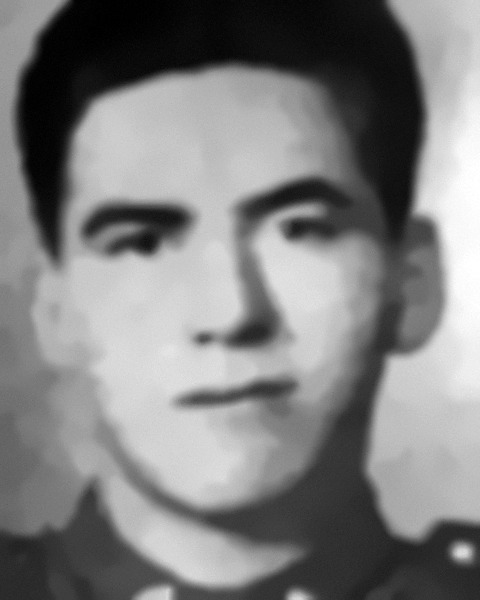
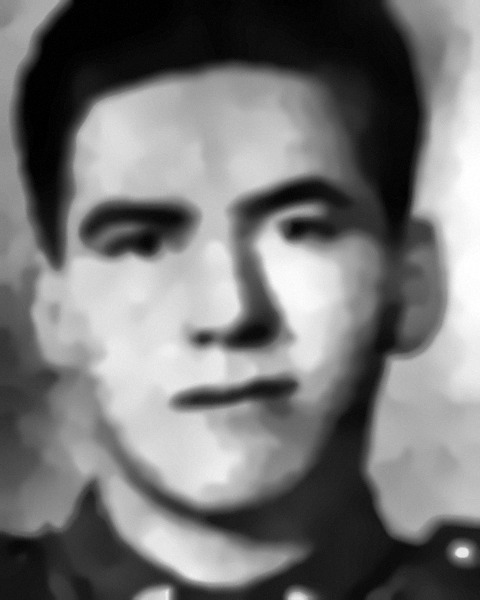
Jim: richer tones, less washed out
Claude-Session: https://claude.ai/code/session_01LThyTBrLcFZEEVGrYi5N7g

diff --git a/people.html b/people.html
@@ -179,7 +179,7 @@ h2.light{color:white;}
       </div>
 
       <div class="person-card">
-        <img src="/images/g1-6.jpg?v=20261014b" class="person-photo" alt="James Wi Hekopa (Jim)"
+        <img src="/images/g1-6.jpg?v=20261014c" class="person-photo" alt="James Wi Hekopa (Jim)"
              onerror="this.outerHTML='<div class=\'person-photo-ph\'><span>g1-6.jpg</span></div>'">
         <div class="person-body">
           <div class="person-name">James Wi Hekopa (Jim)</div>
